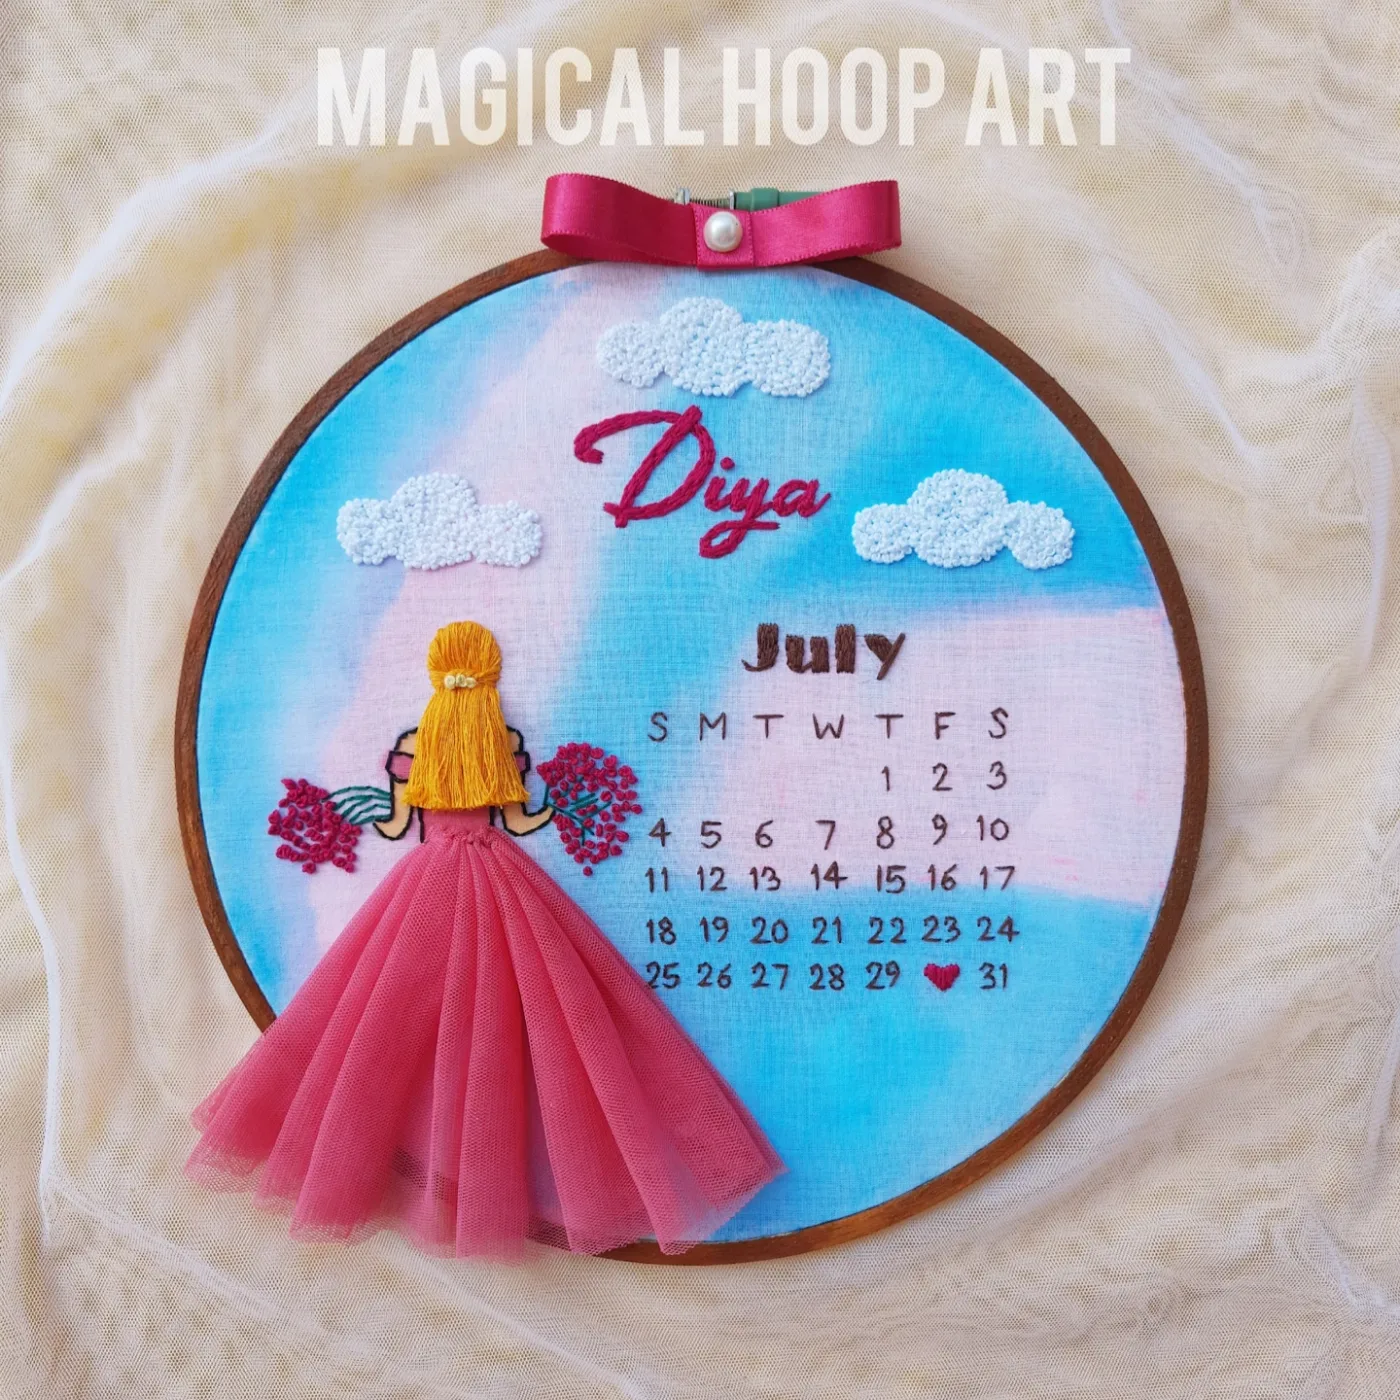
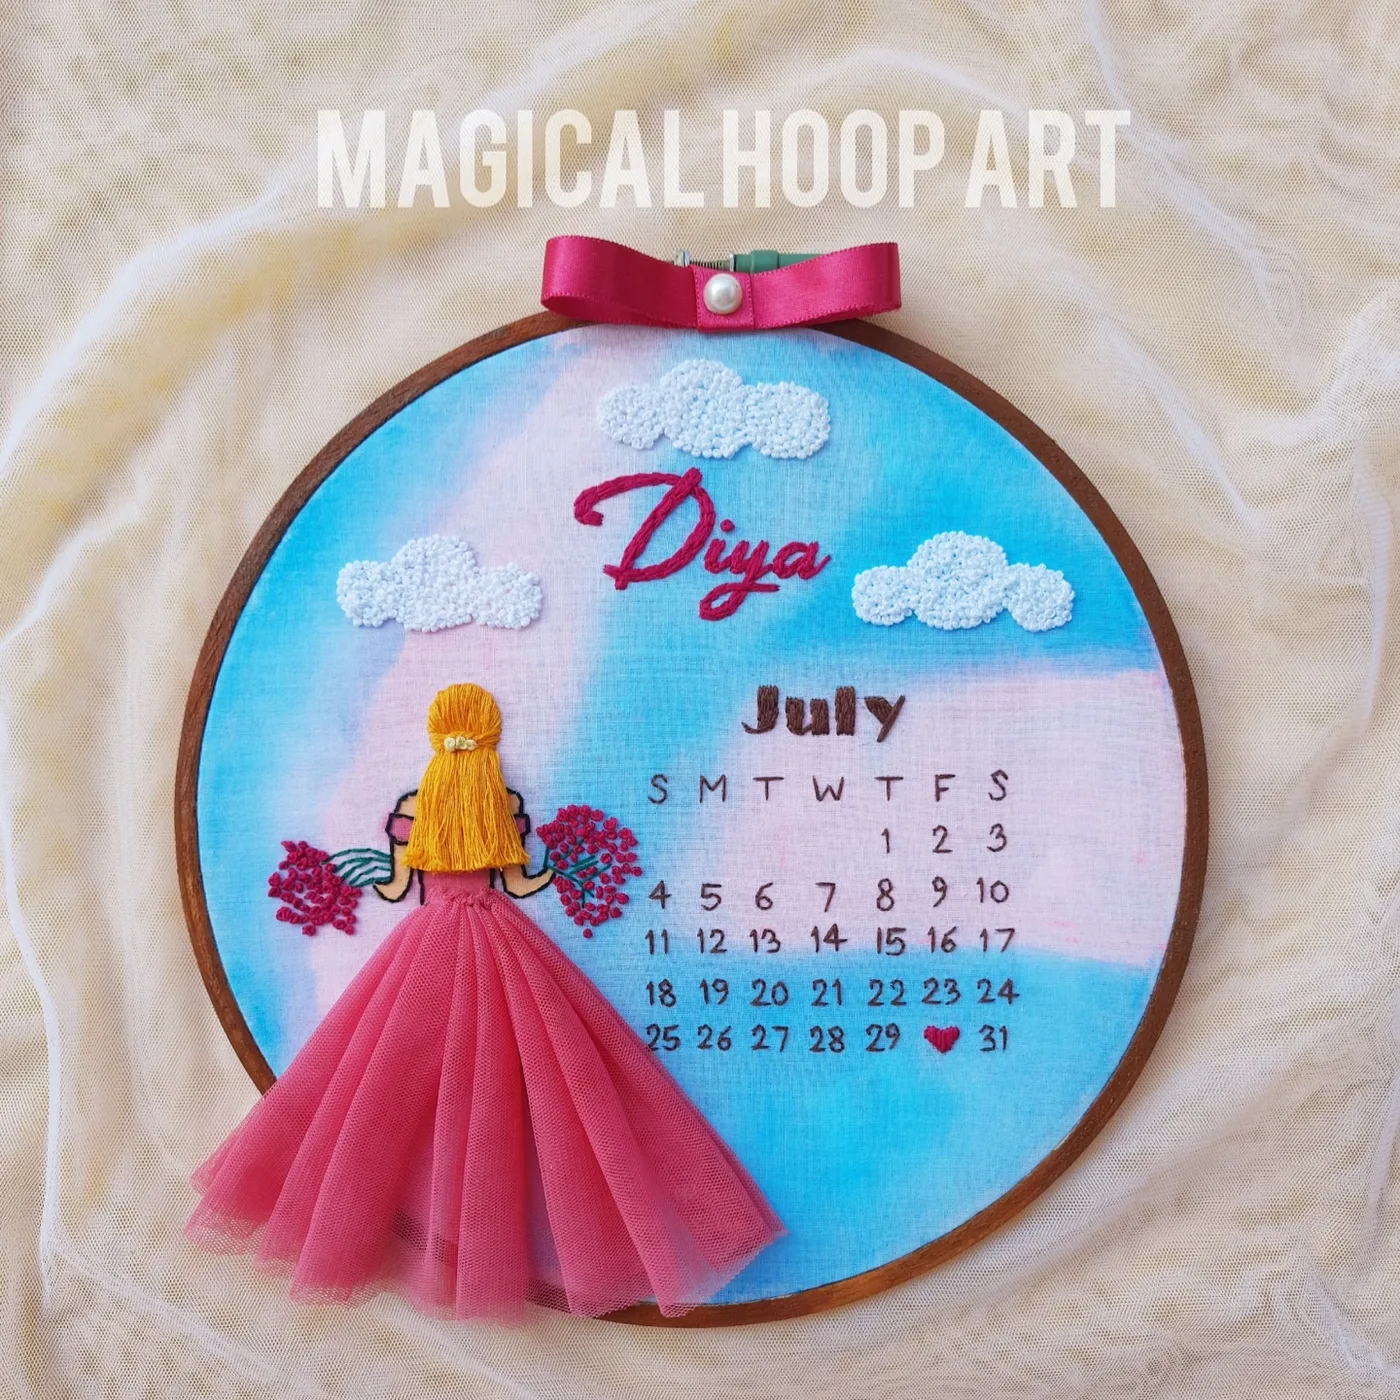
fix: round the photo's corners inside the white mat
The photo was sitting in the mat with square corners. A border's inner corner
radius is its outer radius minus the border width, floored at zero, and the
white band was wider than the well was rounded — 14px of border inside a 12px
radius — so every photo squared off inside a curved frame.

The well is now rounded by the band's width plus the rounding wanted on the
photo, which lands it at 8px on desktop cards, 10px on the piece page and 5-7px
on mobile. The mats open up to match so the frame does not read tighter than
the photo it holds.

A test pins the relationship rather than the numbers, so the next person to
adjust a band width cannot silently square the corners off again.

Measured in WebKit and Chromium at 1440 and 430: no square corner left on any
of the three page types.

diff --git a/src/components/ui/photo-frame.tsx b/src/components/ui/photo-frame.tsx
@@ -26,9 +26,9 @@ const frameVariants = cva(
         /** Home page, one per collection. The card itself clips the corners. */
         collectionCard: '',
         /** The grid on a collection page. */
-        artworkCard: 'rounded-[14px]',
+        artworkCard: 'rounded-[18px]',
         /** The piece's own page. */
-        detail: 'rounded-[20px]',
+        detail: 'rounded-[26px]',
       },
       /** Only the well changes with density; the mat's gradient does not. */
       density: { desktop: '', mobile: '' },
@@ -44,6 +44,11 @@ const frameVariants = cva(
  * photo fills its parent with `inset-0`, which resolves against the *padding*
  * box, so padding on the frame would inset the photo twice over. An inset well
  * puts the frame width in one place and lets the photo fill the well exactly.
+ *
+ * The well's radius is the band's width plus the rounding wanted on the photo.
+ * A border's inner corner radius is the outer radius minus the border width,
+ * clamped at zero, so a radius smaller than the band leaves the photo with
+ * square corners inside a curved mat.
  *
  * The white band between the mat and the photo is the well's border, not more
  * inset: a border sits inside the well's own box, and `inset-0` resolves
@@ -66,32 +71,32 @@ const wellVariants = cva(
       {
         context: 'collectionCard',
         density: 'desktop',
-        class: 'inset-[8px] gap-[6px] rounded-[12px] border-[14px]',
+        class: 'inset-[8px] gap-[6px] rounded-[22px] border-[14px]',
       },
       {
         context: 'collectionCard',
         density: 'mobile',
-        class: 'inset-[5px] gap-[6px] rounded-[10px] border-[10px]',
+        class: 'inset-[5px] gap-[6px] rounded-[16px] border-[10px]',
       },
       {
         context: 'artworkCard',
         density: 'desktop',
-        class: 'inset-[7px] gap-[6px] rounded-[10px] border-[12px]',
+        class: 'inset-[7px] gap-[6px] rounded-[20px] border-[12px]',
       },
       {
         context: 'artworkCard',
         density: 'mobile',
-        class: 'inset-[4px] gap-1 rounded-[8px] border-[8px]',
+        class: 'inset-[4px] gap-1 rounded-[13px] border-[8px]',
       },
       {
         context: 'detail',
         density: 'desktop',
-        class: 'inset-[9px] gap-[10px] rounded-[14px] border-[16px]',
+        class: 'inset-[9px] gap-[10px] rounded-[26px] border-[16px]',
       },
       {
         context: 'detail',
         density: 'mobile',
-        class: 'inset-[6px] gap-2 rounded-[12px] border-[11px]',
+        class: 'inset-[6px] gap-2 rounded-[18px] border-[11px]',
       },
     ],
     defaultVariants: { context: 'artworkCard', density: 'desktop' },

diff --git a/src/components/ui/photo-frame.test.tsx b/src/components/ui/photo-frame.test.tsx
@@ -65,6 +65,23 @@ describe('PhotoFrame', () => {
     }
   });
 
+  /**
+   * A border's inner corner radius is its outer radius minus its width, floored
+   * at zero — so a well rounded less than its band is wide leaves the photo
+   * with square corners inside a curved mat.
+   */
+  it('rounds the well by more than the band is wide, so the photo is not squared off', () => {
+    for (const context of CONTEXTS) {
+      for (const density of DENSITIES) {
+        const { well } = renderFrame(<PhotoFrame context={context} density={density} />);
+        const radius = Number(/rounded-\[(\d+)px\]/.exec(well.className)?.[1]);
+        const band = Number(/border-\[(\d+)px\]/.exec(well.className)?.[1]);
+
+        expect(radius).toBeGreaterThan(band);
+      }
+    }
+  });
+
   it('clips the photo to the well, inside the mat', () => {
     const { mat, well } = renderFrame(<PhotoFrame context="detail" />);
 
